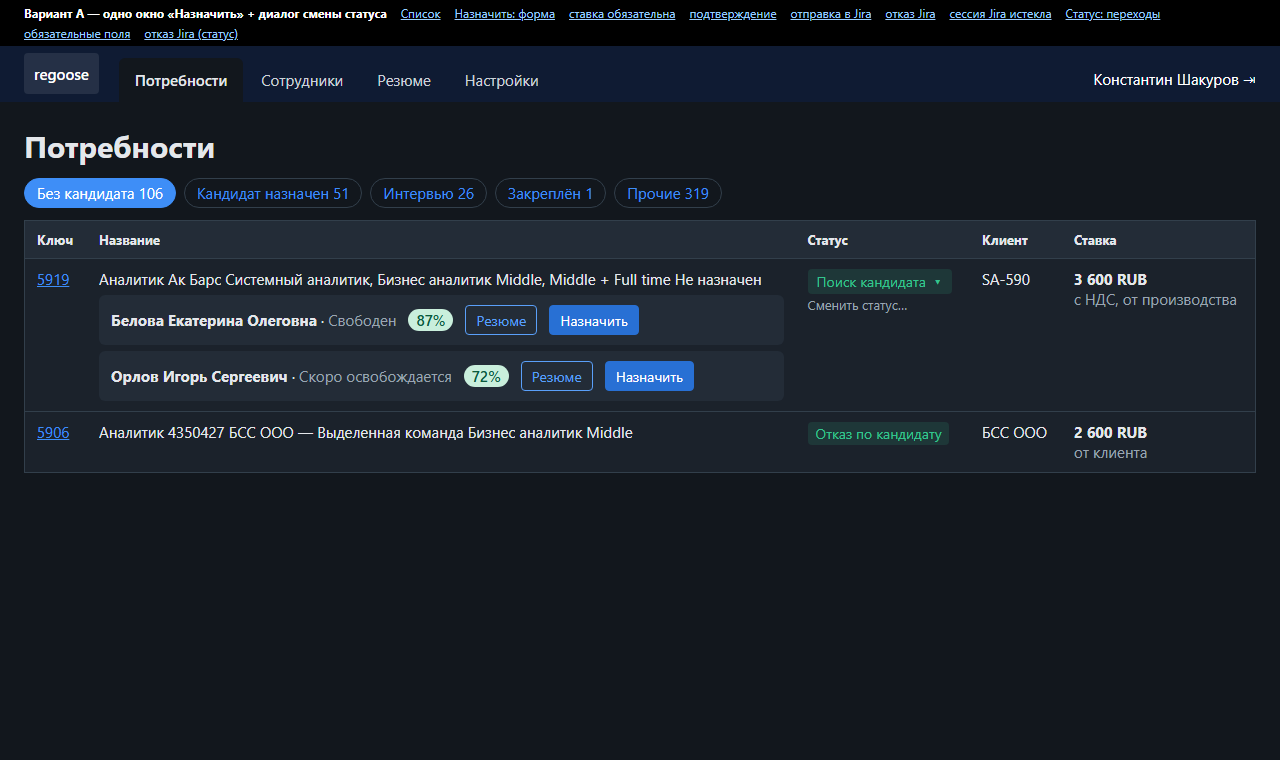
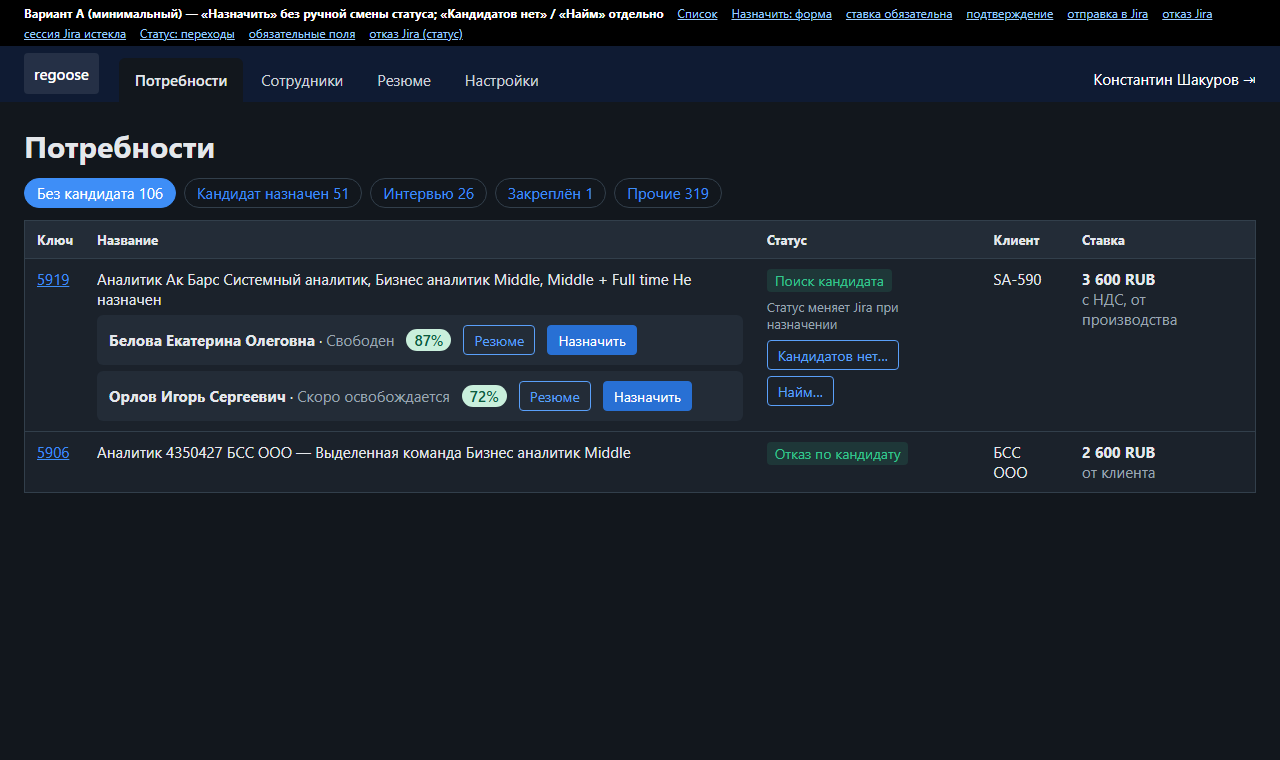
design: KON-79 minimal scenario (auto status by Jira, manual only 'no candidates'/'hire'); requirements: CR-005 opened and scored

diff --git a/design/KON-79/variant_a.html b/design/KON-79/variant_a.html
@@ -1,4 +1,4 @@
-<!doctype html><html lang="ru"><head><meta charset="utf-8"><title>KON-79 - Вариант A — одно окно «Назначить» + диалог смены статуса</title>
+<!doctype html><html lang="ru"><head><meta charset="utf-8"><title>KON-79 - Вариант A (минимальный) — «Назначить» без ручной смены статуса; «Кандидатов нет» / «Найм» отдельно</title>
 <meta name="viewport" content="width=device-width,initial-scale=1"><style>
 :root{--bg:#12171d;--panel:#1b222b;--panel-2:#232c37;--text:#e4e7eb;--muted:#9aa5b1;--border:#323f4b;--accent:#3e8ef7;--nav:#0f1b33;--err:#ff8a80;--ok:#34c38f;--warn:#f5b041;--primary:#2870d4;--primary-hover:#235fc0;--nav-text:#cbd2d9;--secondary:#5aa0fa;--sec-bg:rgba(90,160,250,.08);color-scheme:dark}
 @media (prefers-color-scheme:light){:root{--bg:#f4f6f8;--panel:#fff;--panel-2:#eef1f4;--text:#1f2933;--muted:#616e7c;--border:#cbd2d9;--accent:#1b66c9;--nav:#1f2933;--err:#b42318;--ok:#1a7f5a;--warn:#b7791f;--primary:#1f6fd6;--primary-hover:#1a5bb8;--secondary:#1a62c4;--sec-bg:rgba(26,98,196,.08);color-scheme:light}}
@@ -74,7 +74,7 @@ body[data-s="status"] [data-v="status"],
 body[data-s="status_req"] [data-v="status_req"],
 body[data-s="status_refused"] [data-v="status_refused"]{display:flex}
 </style></head><body>
-<div class="proto-bar"><b>Вариант A — одно окно «Назначить» + диалог смены статуса</b> <a href="?s=list">Список</a> <a href="?s=assign">Назначить: форма</a> <a href="?s=assign_err">ставка обязательна</a> <a href="?s=confirm">подтверждение</a> <a href="?s=progress">отправка в Jira</a> <a href="?s=refused">отказ Jira</a> <a href="?s=reauth">сессия Jira истекла</a> <a href="?s=status">Статус: переходы</a> <a href="?s=status_req">обязательные поля</a> <a href="?s=status_refused">отказ Jira (статус)</a></div>
+<div class="proto-bar"><b>Вариант A (минимальный) — «Назначить» без ручной смены статуса; «Кандидатов нет» / «Найм» отдельно</b> <a href="?s=list">Список</a> <a href="?s=assign">Назначить: форма</a> <a href="?s=assign_err">ставка обязательна</a> <a href="?s=confirm">подтверждение</a> <a href="?s=progress">отправка в Jira</a> <a href="?s=refused">отказ Jira</a> <a href="?s=reauth">сессия Jira истекла</a> <a href="?s=status">Статус: переходы</a> <a href="?s=status_req">обязательные поля</a> <a href="?s=status_refused">отказ Jira (статус)</a></div>
 <header class="topbar"><div class="logo">regoose</div><nav><a class="on" href="#">Потребности</a><a href="#">Сотрудники</a><a href="#">Резюме</a><a href="#">Настройки</a></nav><div class="u">Константин Шакуров ⇥</div></header>
 <main class="content"><h1>Потребности</h1>
 <div class="filter"><span class="chip on">Без кандидата 106</span><span class="chip">Кандидат назначен 51</span><span class="chip">Интервью 26</span><span class="chip">Закреплён 1</span><span class="chip">Прочие 319</span></div>
@@ -82,7 +82,7 @@ body[data-s="status_refused"] [data-v="status_refused"]{display:flex}
 <tr><td><a href="#">5919</a></td><td>Аналитик Ак Барс Системный аналитик, Бизнес аналитик Middle, Middle + Full time Не назначен
 <div class="cand"><span><b>Белова Екатерина Олеговна</b> · <span class="muted">Свободен</span></span><span class="pct">87%</span><button class="btn small sec">Резюме</button><button class="btn small primary">Назначить</button></div>
 <div class="cand"><span><b>Орлов Игорь Сергеевич</b> · <span class="muted">Скоро освобождается</span></span><span class="pct">72%</span><button class="btn small sec">Резюме</button><button class="btn small primary">Назначить</button></div></td>
-<td><button class="st">Поиск кандидата <span aria-hidden="true">▾</span></button><div class="hint" style="margin-top:2px">Сменить статус…</div></td><td>SA-590</td><td><b>3 600 RUB</b><div class="muted">с НДС, от производства</div></td></tr>
+<td><span class="st">Поиск кандидата</span><div class="hint" style="margin-top:6px">Статус меняет Jira при назначении</div><div style="margin-top:8px;display:flex;gap:6px;flex-wrap:wrap"><button class="btn small sec">Кандидатов нет…</button><button class="btn small sec">Найм…</button></div></td><td>SA-590</td><td><b>3 600 RUB</b><div class="muted">с НДС, от производства</div></td></tr>
 <tr><td><a href="#">5906</a></td><td>Аналитик 4350427 БСС ООО — Выделенная команда Бизнес аналитик Middle</td><td><span class="st">Отказ по кандидату</span></td><td>БСС ООО</td><td><b>2 600 RUB</b><div class="muted">от клиента</div></td></tr>
 </tbody></table></main>
 <div class="backdrop" data-v="assign"><div class="modal" role="dialog" aria-label="Назначить кандидата"><div class="m-head"><h2>Назначить кандидата</h2><span>✕</span></div><div class="m-body"><div class="ctx">Потребность 5919 · SA-590 · Кандидат: <b>Белова Екатерина Олеговна</b></div>
@@ -105,7 +105,7 @@ body[data-s="status_refused"] [data-v="status_refused"]{display:flex}
 <button class="btn small sec" style="align-self:flex-start;margin-top:6px">CV по шаблону клиента…</button></div></div><div class="m-foot"><button class="btn sec">Отмена</button><button class="btn primary">Назначить…</button></div></div></div>
 <div class="backdrop" data-v="confirm"><div class="modal" role="dialog" aria-label="Подтвердите назначение"><div class="m-head"><h2>Подтвердите назначение</h2><span>✕</span></div><div class="m-body"><dl class="sum"><dt>Потребность</dt><dd>5919 · SA-590</dd><dt>Кандидат</dt><dd>Белова Екатерина Олеговна</dd><dt>Резюме</dt><dd>Основное CV — Белова_ЕО_CV_2026.docx</dd>
 <dt>Ставка</dt><dd>3 800 руб. с НДС</dd><dt>Файлы</dt><dd>Belova_eng.pdf</dd><dt>Комментарий</dt><dd>Рекомендую кандидата: опыт интеграций…</dd><dt>Исполнитель</dt><dd>Вы (Константин Шакуров)</dd></dl>
-<p class="hint">Файлы прикрепляются как есть, без обезличивания. Повторное назначение заменит предыдущее (FR-010).</p></div><div class="m-foot"><button class="btn sec">Назад</button><button class="btn primary">Подтвердить и отправить в Jira</button></div></div></div>
+<p class="hint">Файлы прикрепляются как есть, без обезличивания. Повторное назначение заменит предыдущее (FR-010).</p><div class="box"><b>Статус изменится автоматически.</b><div class="hint">После отправки Jira сама переведёт потребность в «Кандидат назначен». Вручную статус менять не нужно.</div></div></div><div class="m-foot"><button class="btn sec">Назад</button><button class="btn primary">Подтвердить и отправить в Jira</button></div></div></div>
 <div class="backdrop" data-v="progress"><div class="modal" role="dialog" aria-label="Отправка в Jira"><div class="m-head"><h2>Отправка в Jira</h2><span>✕</span></div><div class="m-body"><p><b>Передаём в Jira…</b></p><div class="prog"><i></i></div>
 <ul class="hint" style="margin:6px 0;padding-left:18px"><li>✓ Перечитана потребность (статус «Поиск кандидата»)</li><li>✓ Профиль сотрудника записан</li><li><b>→ Вложения (1 из 2)</b></li><li>Комментарий, ставка, исполнитель</li></ul>
 <p class="hint">Не закрывайте окно. Обычно до 10 секунд.</p></div><div class="m-foot"><button class="btn sec" disabled>Закрыть</button></div></div></div>
@@ -131,11 +131,13 @@ body[data-s="status_refused"] [data-v="status_refused"]{display:flex}
 <label class="chk"><input type="checkbox" checked> Belova_eng.pdf <span class="muted">Доп. CV</span></label>
 <label class="chk"><input type="checkbox"> Примеры_работ.pdf <span class="muted">Материалы</span></label>
 <button class="btn small sec" style="align-self:flex-start;margin-top:6px">CV по шаблону клиента…</button></div></div><div class="m-foot"><button class="btn sec">Отмена</button><button class="btn primary">Войти и продолжить</button></div></div></div>
-<div class="backdrop" data-v="status"><div class="modal" role="dialog" aria-label="Сменить статус потребности"><div class="m-head"><h2>Сменить статус потребности</h2><span>✕</span></div><div class="m-body"><div class="ctx">5919 · сейчас «Поиск кандидата»</div><div class="radio" style="opacity:.6"><input type="radio" disabled> <div><b>Поиск кандидата</b> <span class="muted">— текущий статус</span></div></div><div class="radio "><input type="radio" name="t" > <div><b>Кандидат назначен</b></div></div><div class="radio on"><input type="radio" name="t" checked> <div><b>Кандидатов нет</b> <span class="hint">— нужны причина и комментарий</span></div></div><div class="radio "><input type="radio" name="t" > <div><b>Найм</b> <span class="hint">— нужны поля Jira</span></div></div><div class="radio "><input type="radio" name="t" > <div><b>Неактуально</b></div></div><p class="hint">Переходы и обязательные поля запрашиваются у Jira по правам вашего аккаунта.</p></div><div class="m-foot"><button class="btn sec">Отмена</button><button class="btn primary">Далее</button></div></div></div>
-<div class="backdrop" data-v="status_req"><div class="modal" role="dialog" aria-label="Сменить статус: Кандидатов нет"><div class="m-head"><h2>Сменить статус: Кандидатов нет</h2><span>✕</span></div><div class="m-body"><div class="radio on"><input type="radio" checked> <div><b>Кандидатов нет</b></div></div>
+<div class="backdrop" data-v="status"><div class="modal" role="dialog" aria-label="Нет подходящих кандидатов"><div class="m-head"><h2>Нет подходящих кандидатов</h2><span>✕</span></div><div class="m-body"><div class="ctx">5919 · сейчас «Поиск кандидата»</div>
+<div class="radio on"><input type="radio" name="t" checked> <div><b>Кандидатов нет</b> <span class="hint">— нужны причина и комментарий</span></div></div>
+<div class="radio"><input type="radio" name="t"> <div><b>Найм</b> <span class="hint">— передать на найм</span></div></div></div><div class="m-foot"><button class="btn sec">Отмена</button><button class="btn primary">Далее</button></div></div></div>
+<div class="backdrop" data-v="status_req"><div class="modal" role="dialog" aria-label="Кандидатов нет"><div class="m-head"><h2>Кандидатов нет</h2><span>✕</span></div><div class="m-body"><div class="radio on"><input type="radio" checked> <div><b>Кандидатов нет</b></div></div>
 <div class="field" style="margin-top:12px"><label>Причина отсутствия кандидата <span class="error">*</span></label><select><option>Нет специалистов данного уровня, но есть слабее</option><option>Низкая ставка</option><option>Требуется очное присутствие</option></select></div>
-<div class="field"><label>Комментарий <span class="error">*</span></label><textarea>Нет свободных аналитиков уровня Middle+ с опытом интеграций.</textarea><div class="hint">Видимость комментария: для всех.</div></div></div><div class="m-foot"><button class="btn sec">Отмена</button><button class="btn primary">Сменить статус</button></div></div></div>
-<div class="backdrop" data-v="status_refused"><div class="modal" role="dialog" aria-label="Сменить статус: Кандидатов нет"><div class="m-head"><h2>Сменить статус: Кандидатов нет</h2><span>✕</span></div><div class="m-body"><div class="box errbox"><b class="error">Jira отказала в смене статуса</b>
+<div class="field"><label>Комментарий <span class="error">*</span></label><textarea>Нет свободных аналитиков уровня Middle+ с опытом интеграций.</textarea><div class="hint">Видимость комментария: для всех.</div></div></div><div class="m-foot"><button class="btn sec">Отмена</button><button class="btn primary">Перевести в «Кандидатов нет»</button></div></div></div>
+<div class="backdrop" data-v="status_refused"><div class="modal" role="dialog" aria-label="Кандидатов нет"><div class="m-head"><h2>Кандидатов нет</h2><span>✕</span></div><div class="m-body"><div class="box errbox"><b class="error">Jira отказала в смене статуса</b>
 <p style="margin:6px 0 0">Transition 'Кандидатов нет' is not valid for this issue in its current status. (400)</p>
 <div class="hint">Текст ответа Jira показан как есть. Введённые данные сохранены. Статус потребности мог измениться — обновите карточку.</div></div><div class="radio on"><input type="radio" checked> <div><b>Кандидатов нет</b></div></div>
 <div class="field" style="margin-top:12px"><label>Причина отсутствия кандидата <span class="error">*</span></label><select><option>Нет специалистов данного уровня, но есть слабее</option><option>Низкая ставка</option><option>Требуется очное присутствие</option></select></div>

diff --git a/design/KON-79/decision.md b/design/KON-79/decision.md
@@ -1,15 +1,22 @@
 # KON-79 «Назначить» и смена статуса — решение по UI
 
 Статус: **proposed (ждёт апрува владельца)** | дата: 15.10.2026 | утвердил: —
-Предложенный вариант: **A — одно окно «Назначить» + диалог смены статуса** (рекомендация UX, см. `README.md`).
+Предложенный вариант: **A (минимальный) — одно окно «Назначить» без ручной смены статуса; «Кандидатов нет» и «Найм» отдельными действиями** (по решению владельца 15.10.2026, CR-005; см. `README.md`).
 
 > Dev (KON-44) не стартует до статуса `approved` и комментария в Linear (`.claude/rules/ui_workflow.md`). После выбора владельца этот файл обновляется: статус, выбранный вариант, поправки, ответы на открытые вопросы.
 
-## Что реализовать (в рамке варианта A; уточняется после апрува)
-- Чип статуса потребности — кнопка «<статус> ▾», открывает диалог «Сменить статус потребности».
-- Окно «Назначить кандидата» (`Modal wide`): контекстная строка, «Резюме» (select), «Ставка, руб. с НДС» (обязательна при «от производства»), «Комментарий», «Файлы» (чекбоксы), «CV по шаблону клиента…» (secondary). Основное действие «Назначить…» → экран подтверждения (сводка) → «Подтвердить и отправить в Jira».
-- Прогресс отправки по этапам; отказ Jira (текст как есть, введённое сохранено, «Повторить»); истёкшая сессия (пароль Jira в окне, данные сохранены).
-- Диалог смены статуса: переходы из Jira; обязательные поля перехода (для «Кандидатов нет» — «Причина отсутствия кандидата», «Комментарий»); отказ Jira как есть.
+## Что реализовать (вариант A, минимальный; уточняется после апрува)
+**Назначение (UC-001, FR-008, FR-018, FR-010):**
+- Окно «Назначить кандидата» (`Modal wide`): контекстная строка (потребность · клиент · кандидат), «Резюме» (по умолчанию Основное CV), «Ставка, руб. с НДС» (обязательна при «от производства»; рядом ставка потребности и ориентир), «Комментарий», «Файлы» (Доп. CV и Материалы), «CV по шаблону клиента…» (secondary; диалог — KON-80).
+- «Назначить…» → экран подтверждения со сводкой и пояснением «Jira сама переведёт потребность в «Кандидат назначен»; вручную менять статус не нужно» → «Подтвердить и отправить в Jira».
+- Прогресс по этапам, отказ Jira (текст как есть, введённое сохранено, «Повторить»), истёкшая сессия (пароль Jira в окне, данные сохранены).
+- После успеха окно закрывается, статус потребности в списке обновляется из Jira (перечитывание).
+- Файлы и комментарий статус не меняют (учитывается в тексте подтверждения).
+
+**Статус (FR-011):**
+- В строке потребности — вторичные действия «Кандидатов нет…» и «Найм…» (также доступны из пустого результата сопоставления, FR-036).
+- «Кандидатов нет» — обязательные «Причина отсутствия кандидата» (справочник Jira) и «Комментарий» (видимость «для всех»); «Найм» — поля по запросу Jira. Отказ Jira — текст как есть, введённое сохранено.
+- Универсального списка переходов и меню «Сменить статус» нет.
 
 ## Токены и стили
 Существующие токены; secondary — `--secondary`, основная кнопка `--primary`; новых токенов нет.

diff --git a/design/KON-79/README.md b/design/KON-79/README.md
@@ -1,3 +1,24 @@
+# KON-79 — «Назначить»: минимальный сценарий (обновлено 15.10.2026, решение владельца в чате)
+
+> **Актуально:** `variant_a.html` (минимальный). Варианты B и C остаются в папке как отвергнутые для истории. Ручной общий перевод статуса из приложения **не входит** в разработку.
+
+## Сценарии
+1. **Назначить из приложения:** «Назначить» → выбрать CV, комментарий (+ставка, файлы по FR-008/FR-018) → «Назначить…» → экран подтверждения → «Подтвердить и отправить в Jira» → Jira сама переводит потребность в «Кандидат назначен» (вручную статус не меняется; файлы и комментарии статус не меняют). После успеха приложение перечитывает потребность и показывает новый статус.
+2. **Назначение в самой Jira** (вне приложения): статус меняется в Jira; приложение узнаёт его при опросе (FR-028) или по кнопке «Обновить».
+3. **Нет кандидатов или нужен найм:** в строке потребности два вторичных действия «Кандидатов нет…» и «Найм…». «Кандидатов нет» — причина из справочника Jira и комментарий (обязательны); «Найм» — перевод (поля — по запросу Jira). Общего списка переходов нет.
+
+## Что убрано относительно первого пакета
+- Чип статуса как меню «Сменить статус ▾» и диалог со списком всех переходов Jira.
+- Ручная смена статуса как шаг назначения.
+
+## Решение по требованиям
+CR-005 (5.4, score 7.5): FR-026 сужается до двух переходов, UC-002 и FR-011 уточняются, в FR-008 добавляется автоматический перевод статуса Jira. Решение — за владельцем (`output/reports/re_web_presale/…CR-005…` после resolve).
+
+## Риск
+Автоперевод статуса при записи через API (не через экран Jira) должен быть подтверждён пробой на тестовой потребности в KON-42/KON-43: в UI Jira это переход «Назначить» со своим экраном. Если одной записи полей недостаточно, backend выполняет этот переход сам (для пользователя шаг всё равно один).
+
+---
+
 # KON-79 — «Назначить» и смена статуса: три варианта
 
 Прототипы (кликабельное переключение состояний в чёрной полосе сверху): `variant_a.html`, `variant_b.html`, `variant_c.html`; PNG — `variant_{a,b,c}_<состояние>_{dark,light}_1280.png` (+ `refused_dark_1024`).
